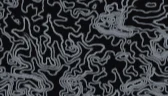
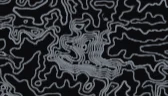
raise everest's elevation to 0.32
- the maintainer matched it against photos of everest and lhotse, so the summit stands sharp above the khumbu
- render the dock pictures again with the new everest

diff --git a/packages/core/src/locations/builtin.ts b/packages/core/src/locations/builtin.ts
@@ -88,7 +88,7 @@ export const LOCATIONS: readonly LocationInfo[] = [
   place('yosemite', 'Yosemite Valley', { west: -119.755, south: 37.647, east: -119.415, north: 37.823 }, view(341.8, 35, 0.16)),
   place('torres-del-paine', 'Torres del Paine', { west: -73.478, south: -51.175, east: -72.622, north: -50.825 }, view(341.8, 35, 0.16)),
   place('fuji', 'Mount Fuji', { west: 138.433, south: 35.278, east: 139.007, north: 35.582 }, view(341.8, 30, 0.24)),
-  place('everest', 'Everest & the Khumbu', { west: 86.757, south: 27.892, east: 87.093, north: 28.084 }, view(341.8, 40, 0.2)),
+  place('everest', 'Everest & the Khumbu', { west: 86.757, south: 27.892, east: 87.093, north: 28.084 }, view(341.8, 40, 0.32)),
   place('kilimanjaro', 'Kilimanjaro', { west: 37.0, south: -3.303, east: 37.72, north: -2.837 }, view(341.8, 30, 0.24)),
 ];
 

diff --git a/apps/playground/src/region/map-looks.ts b/apps/playground/src/region/map-looks.ts
@@ -95,7 +95,7 @@ export const MAP_LOOKS: readonly MapLook[] = [
   mapLook('fuji', 'fuji', rosePod('#9fbecc', 0.24, 30), fujiThumb, fujiMinimap),
   mapLook('matterhorn', 'matterhorn', rosePod('#c4d7e8', 0.16, 35), matterhornThumb, matterhornMinimap),
   mapLook('torres-del-paine', 'torres-del-paine', rosePod('#b3d6d0', 0.16, 35), torresDelPaineThumb, torresDelPaineMinimap),
-  mapLook('everest', 'everest', rosePod('#d5e2ee', 0.2, 40), everestThumb, everestMinimap),
+  mapLook('everest', 'everest', rosePod('#d5e2ee', 0.32, 40), everestThumb, everestMinimap),
   mapLook('kilimanjaro', 'kilimanjaro', rosePod('#d4c39e', 0.24, 30), kilimanjaroThumb, kilimanjaroMinimap),
   mapLook('cyprus', 'cyprus', rosePod('#d6cdb0', 0.1, 51.1, 0.1, { radius: 1.28, panX: -0.014, panZ: -0.01 }), cyprusThumb, cyprusMinimap),
 ];

diff --git a/packages/core/src/settings.test.ts b/packages/core/src/settings.test.ts
@@ -210,7 +210,7 @@ describe('location setting', () => {
     const s = resolveSettings({ location: 'everest' });
     expect(s.location).toBe('everest');
     expect(s.camera).toMatchObject({ azimuth: 341.8, elevation: 40, radius: 1.32, motion: 'still' });
-    expect(s.elevation).toBe(0.2);
+    expect(s.elevation).toBe(0.32);
     expect(s.extent).toBe('block');
     expect(s.lines).toEqual({ count: 36, width: 0, opacity: 0.9, indexEvery: 4 });
     expect(s.layout.fade).toBe(0.15);
